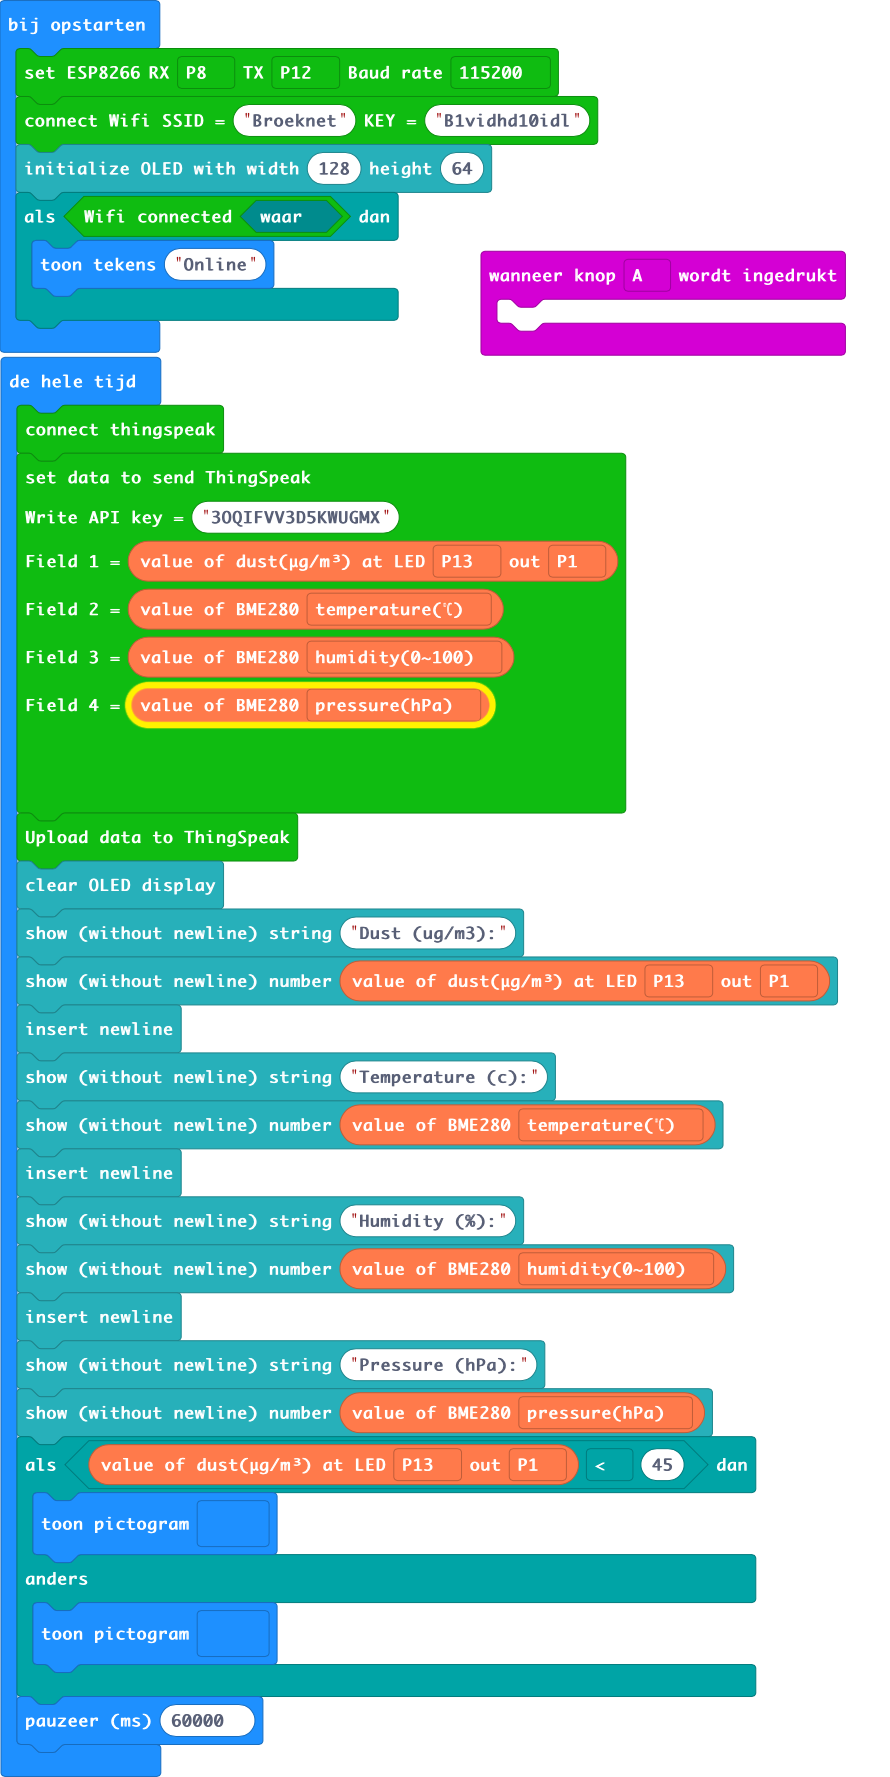
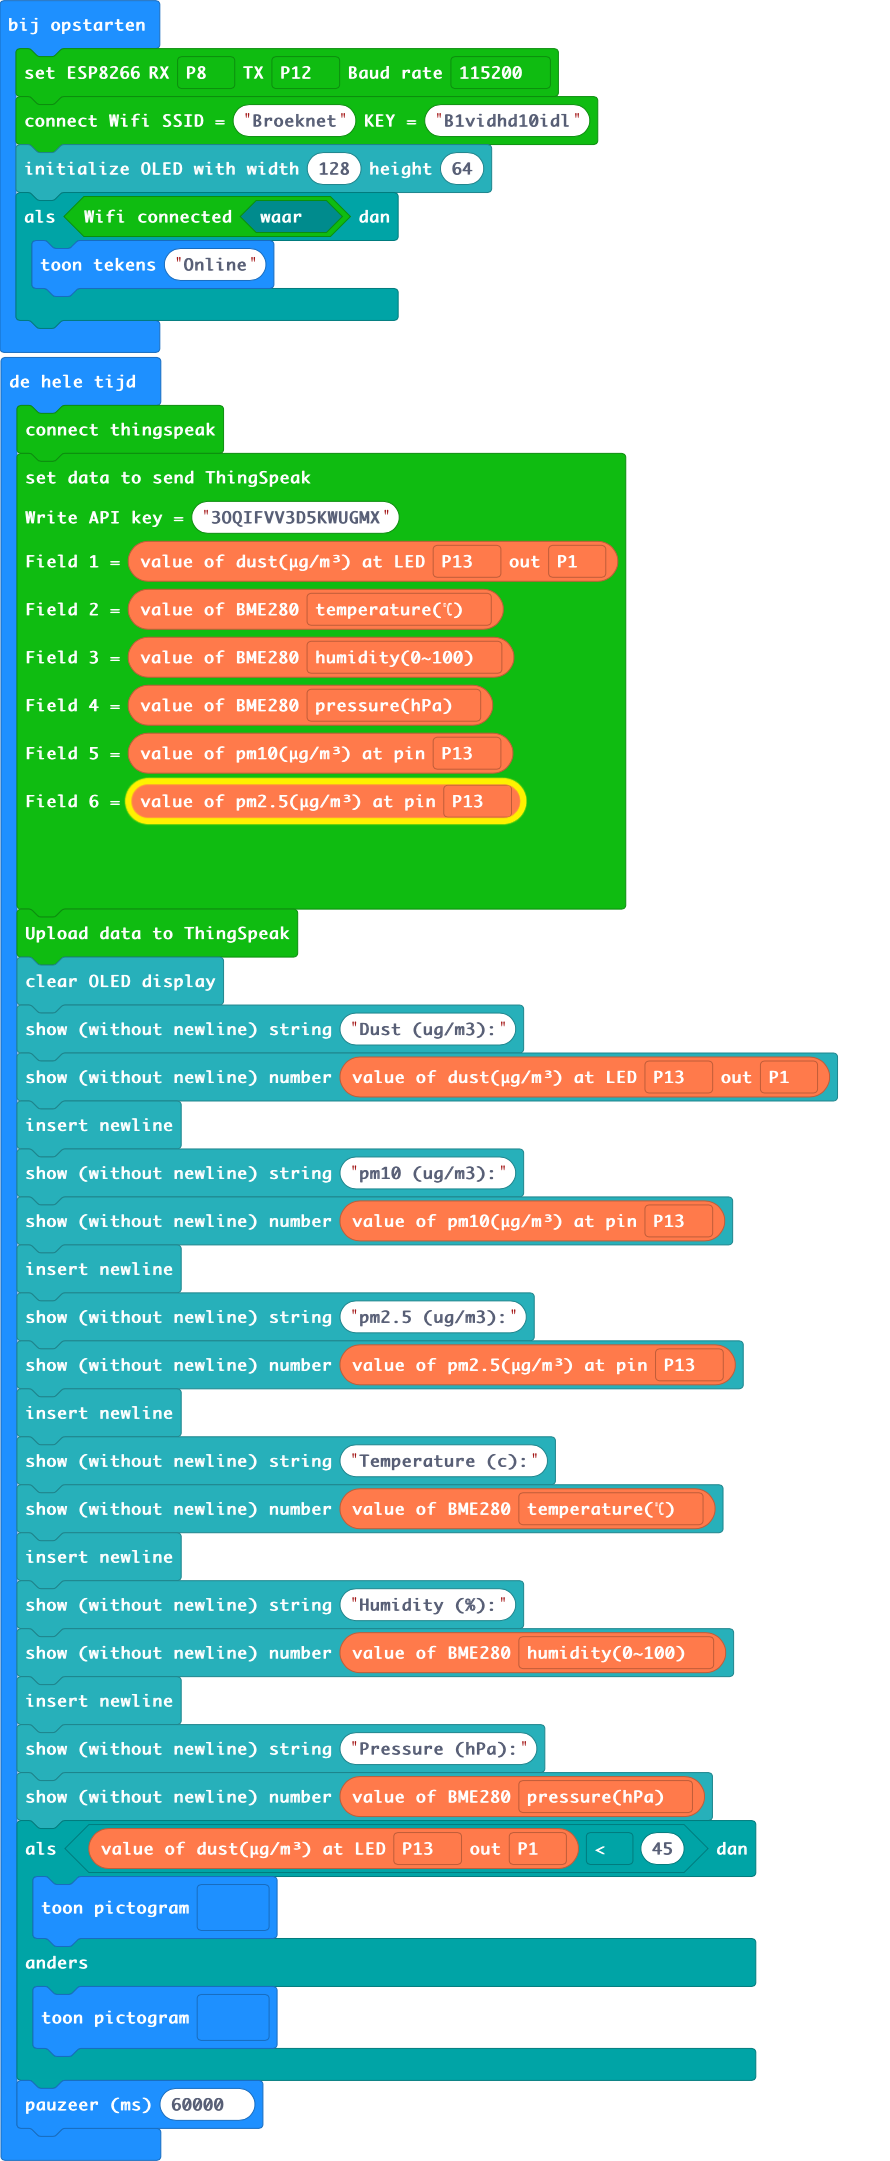
Added pm10 and pm2.5 sensors to screen and to data stream

diff --git a/main.ts b/main.ts
@@ -1,6 +1,3 @@
-input.onButtonPressed(Button.A, function () {
-	
-})
 ESP8266_IoT.initWIFI(SerialPin.P8, SerialPin.P12, BaudRate.BaudRate115200)
 ESP8266_IoT.connectWifi("Broeknet", "B1vidhd10idl")
 OLED.init(128, 64)
@@ -14,12 +11,20 @@ basic.forever(function () {
     Environment.ReadDust(DigitalPin.P13, AnalogPin.P1),
     Environment.octopus_BME280(Environment.BME280_state.BME280_temperature_C),
     Environment.octopus_BME280(Environment.BME280_state.BME280_humidity),
-    Environment.octopus_BME280(Environment.BME280_state.BME280_pressure)
+    Environment.octopus_BME280(Environment.BME280_state.BME280_pressure),
+    Environment.ReadPM10(DigitalPin.P13),
+    Environment.ReadPM25(DigitalPin.P13)
     )
     ESP8266_IoT.uploadData()
     OLED.clear()
     OLED.writeString("Dust (ug/m3):")
     OLED.writeNum(Environment.ReadDust(DigitalPin.P13, AnalogPin.P1))
+    OLED.newLine()
+    OLED.writeString("pm10 (ug/m3):")
+    OLED.writeNum(Environment.ReadPM10(DigitalPin.P13))
+    OLED.newLine()
+    OLED.writeString("pm2.5 (ug/m3):")
+    OLED.writeNum(Environment.ReadPM25(DigitalPin.P13))
     OLED.newLine()
     OLED.writeString("Temperature (c):")
     OLED.writeNum(Environment.octopus_BME280(Environment.BME280_state.BME280_temperature_C))
